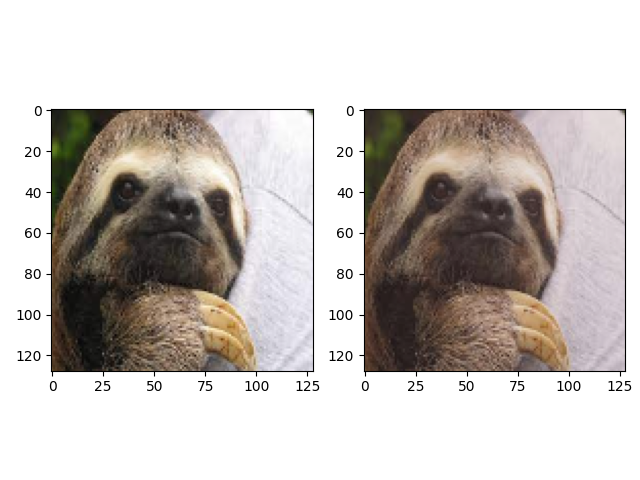
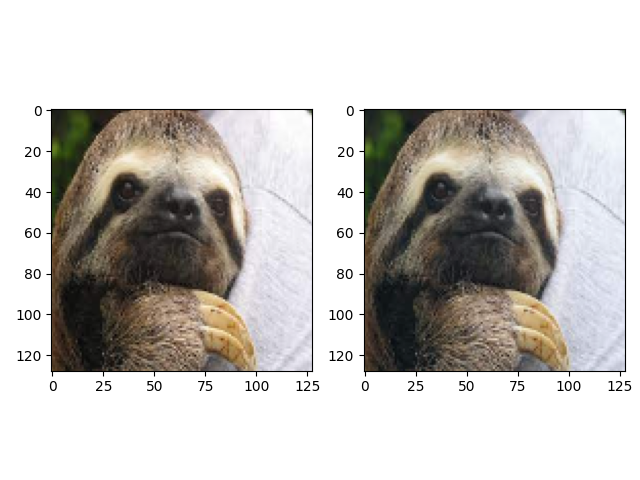
add cutout

diff --git a/tests/test_cutout.py b/tests/test_cutout.py
@@ -1,0 +1,90 @@
+import os
+
+import torch
+from image_augzoo import Cutout
+
+from tests import BASE_DIR, load_image, save_image
+
+save_to = os.path.join(BASE_DIR, "cutout")
+os.makedirs(save_to, exist_ok=True)
+
+
+def test_cutout_single():
+    cutout = Cutout()
+    image = load_image("assets/image01.jpg", (128, 128)) / 255.0
+    processed = cutout(image)
+    assert isinstance(processed, tuple)
+    assert len(processed) == 1
+    assert isinstance(processed[0], torch.Tensor)
+    assert image.size() == processed[0].size()
+    save_image(
+        os.path.join(save_to, "cutout_single.png"),
+        2,
+        1.0,
+        image,
+        processed[0],
+    )
+
+
+def test_cutout_single_sr():
+    cutout = Cutout()
+    HR = load_image("assets/image01.jpg", (128, 128)) / 255.0
+    LR = load_image("assets/image01.jpg", (128, 128), SR=True) / 255.0
+    processed = cutout(LR, HR)
+    assert isinstance(processed, tuple)
+    assert len(processed) == 2
+    assert isinstance(processed[0], torch.Tensor)
+    assert LR.size() == processed[0].size()
+    save_image(
+        os.path.join(save_to, "cutout_single_sr.png"),
+        4,
+        1.0,
+        LR,
+        HR,
+        processed[0],
+        processed[1],
+    )
+
+
+def test_cutout_batch():
+    cutout = Cutout()
+    LR = [
+        load_image(f"assets/image0{i}.jpg", (128, 128), SR=True) / 255.0
+        for i in range(1, 4)
+    ]
+    HR = [load_image(f"assets/image0{i}.jpg", (128, 128)) / 255.0 for i in range(1, 4)]
+    LR = torch.stack(LR)
+    HR = torch.stack(HR)
+
+    processed = cutout(LR, HR)
+    assert isinstance(processed, tuple)
+    assert len(processed) == 2
+    assert isinstance(processed[0], torch.Tensor)
+    assert LR.size() == processed[0].size()
+
+    tiles = []
+    for i in range(len(LR)):
+        tiles.extend([LR[i], HR[i], processed[0][i], processed[1][i]])
+    save_image(os.path.join(save_to, "cutout_batch.png"), 4, 1.0, *tiles)
+
+
+def test_cutout_batch_p():
+    cutout = Cutout(p=0.2)
+    LR = [
+        load_image(f"assets/image0{i}.jpg", (128, 128), SR=True) / 255.0
+        for i in range(1, 4)
+    ]
+    HR = [load_image(f"assets/image0{i}.jpg", (128, 128)) / 255.0 for i in range(1, 4)]
+    LR = torch.stack(LR)
+    HR = torch.stack(HR)
+
+    processed = cutout(LR, HR)
+    assert isinstance(processed, tuple)
+    assert len(processed) == 2
+    assert isinstance(processed[0], torch.Tensor)
+    assert LR.size() == processed[0].size()
+
+    tiles = []
+    for i in range(len(LR)):
+        tiles.extend([LR[i], HR[i], processed[0][i], processed[1][i]])
+    save_image(os.path.join(save_to, "cutout_batch_p.png"), 4, 1.0, *tiles)

diff --git a/image_augzoo/image_augzoo/cutout.py b/image_augzoo/image_augzoo/cutout.py
@@ -1,0 +1,63 @@
+from typing import Tuple
+
+import numpy as np
+import torch
+
+from image_augzoo.core.transform import MultiTransform
+
+
+class Cutout(MultiTransform):
+    """
+    Cutout
+
+    Attributes
+    ----------
+    p : float
+    alpha : float
+    """
+
+    def __init__(
+        self,
+        p: float = 1.0,
+        alpha: float = 0.001,
+    ):
+        """
+        Parameters
+        ----------
+        p : float
+        alpha : float
+        """
+        self.alpha = alpha
+        super().__init__(p=p)
+
+    def apply(self, *inputs: torch.Tensor, **kwargs) -> Tuple[torch.Tensor, ...]:
+        if self.alpha <= 0 or torch.rand(1) >= self.p:
+            return inputs
+
+        LR = inputs[0]
+        cutout = np.random.choice(
+            [0.0, 1.0], size=LR.size()[1:], p=[self.alpha, 1 - self.alpha]
+        )
+        mask = torch.tensor(cutout, dtype=torch.float32, device=LR.device)
+
+        return tuple(
+            input_ * mask if i == 0 else input_ for i, input_ in enumerate(inputs)
+        )
+
+    def apply_batch(self, *inputs: torch.Tensor, **kwargs) -> Tuple[torch.Tensor, ...]:
+        bs = inputs[0].size(0)
+        device = inputs[0].device
+        probs = torch.rand(bs, device=device)
+        if self.alpha <= 0 or (probs > self.p).all():
+            return inputs
+
+        LR = inputs[0]
+        h, w = inputs[0].size(-2), inputs[0].size(-1)
+        cutout = np.random.choice(
+            [0.0, 1.0], size=(bs, 1, h, w), p=[self.alpha, 1 - self.alpha]
+        ).repeat(3, axis=1)
+        mask = torch.tensor(cutout, dtype=torch.float32, device=LR.device)
+
+        return tuple(
+            input_ * mask if i == 0 else input_ for i, input_ in enumerate(inputs)
+        )

diff --git a/update_readme.py b/update_readme.py
@@ -36,11 +36,11 @@ def generate_markdown(data: Dict[str, List[str]]) -> str:
         for image in images:
             # subtitle
             if method == "original":
-                string += f"![{image}](https://github.com/yuta0306/image-augzoo/{cdir}/{image})"
+                string += f"![{image}]({cdir}/{image})"
             else:
                 subtitle = image.replace(".png", "").replace(".jpg", "")
                 string += f"### {subtitle}\n\n"
-                string += f"![{subtitle}](https://github.com/yuta0306/image-augzoo/{cdir}/{image})\n\n"
+                string += f"![{subtitle}]({cdir}/{image})\n\n"
         if method == "original":
             string += "\n\n"
 

diff --git a/image_augzoo/__init__.py b/image_augzoo/__init__.py
@@ -1,4 +1,13 @@
 from .core import Compose, Identity, Oneof, Transform
-from .image_augzoo import Blend, CutBlur, CutMix
+from .image_augzoo import Blend, CutBlur, CutMix, Cutout
 
-__all__ = ["Compose", "Transform", "Blend", "CutBlur", "CutMix", "Identity", "Oneof"]
+__all__ = [
+    "Compose",
+    "Transform",
+    "Blend",
+    "CutBlur",
+    "CutMix",
+    "Identity",
+    "Oneof",
+    "Cutout",
+]

diff --git a/image_augzoo/image_augzoo/__init__.py b/image_augzoo/image_augzoo/__init__.py
@@ -1,5 +1,6 @@
 from .blend import Blend
 from .cutblur import CutBlur
 from .cutmix import CutMix
+from .cutout import Cutout
 
-__all__ = ["Blend", "CutBlur", "CutMix"]
+__all__ = ["Blend", "CutBlur", "CutMix", "Cutout"]
